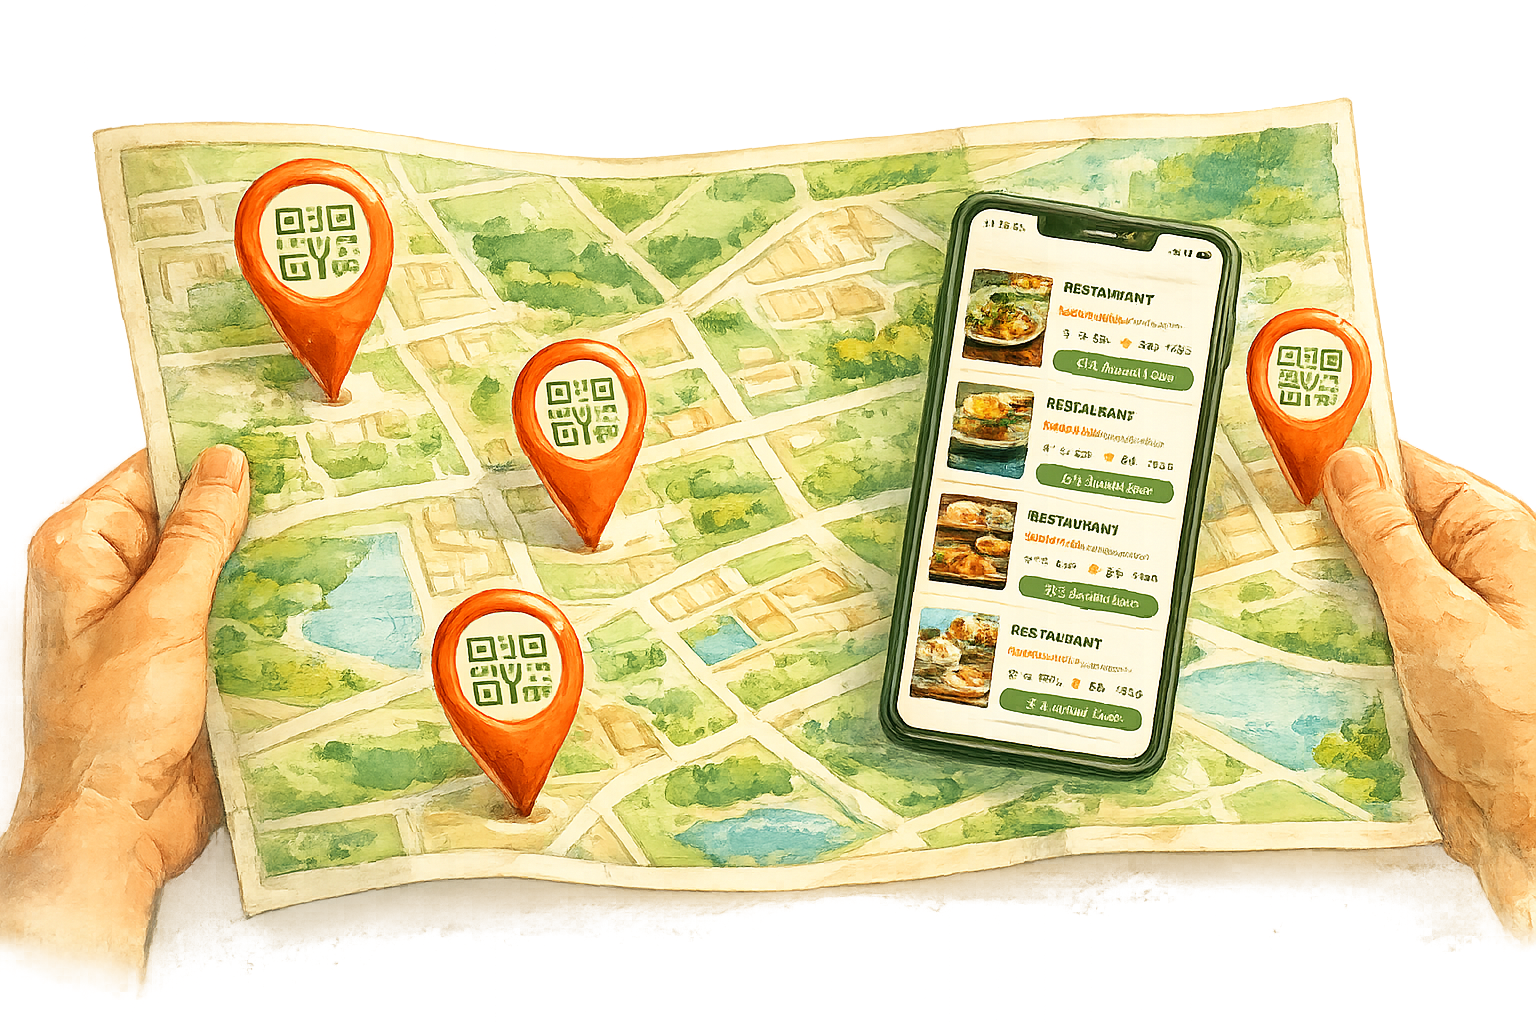
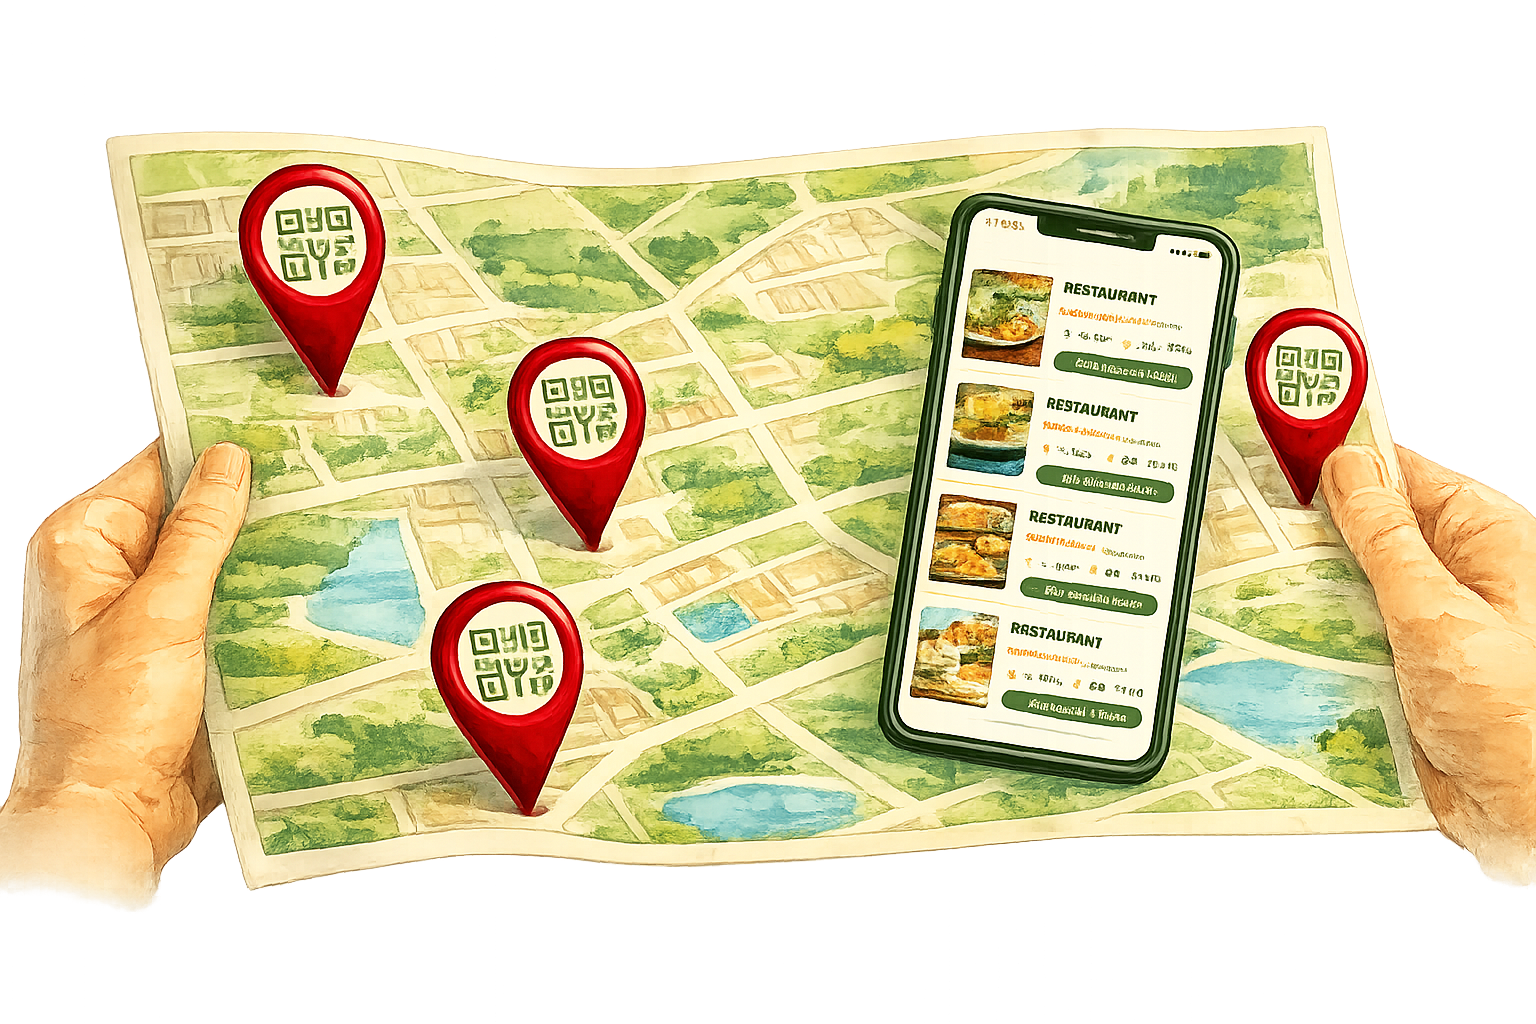
Updated main page colors and layout.

diff --git a/WebUI/wwwroot/css/footer-header.css b/WebUI/wwwroot/css/footer-header.css
@@ -9,7 +9,8 @@
     position: sticky;
     top: 0;
     z-index: 50;
-    isolation: isolate; /* dropdown z-index stabil */
+    isolation: isolate;
+    /* dropdown z-index stabil */
 }
 
 .site-header__inner {
@@ -18,7 +19,7 @@
     grid-template-areas: "logo nav actions";
     align-items: center;
     gap: 16px;
-    padding: 10px 0;
+    padding: 10px 24px;
 }
 
 /* LOGO */
@@ -37,7 +38,7 @@
     width: 36px;
     height: 36px;
     border-radius: 12px;
-    background: rgba(255,255,255,.18);
+    background: rgba(255, 255, 255, .18);
     display: inline-flex;
     align-items: center;
     justify-content: center;
@@ -56,13 +57,13 @@
     gap: 6px;
     padding: 6px;
     border-radius: 999px;
-    background: rgba(255,255,255,.16);
+    background: rgba(255, 255, 255, .16);
 }
 
 .site-header__nav-link {
     position: relative;
     z-index: 1;
-    color: rgba(255,255,255,.92);
+    color: rgba(255, 255, 255, .92);
     font-weight: 900;
     font-size: 14px;
     padding: 8px 12px;
@@ -70,10 +71,10 @@
     white-space: nowrap;
 }
 
-    .site-header__nav-link.is-active {
-        color: #2a5c2a;
-        background: rgba(255,255,255,.92);
-    }
+.site-header__nav-link.is-active {
+    color: #2a5c2a;
+    background: rgba(255, 255, 255, .92);
+}
 
 /* ACTIONS */
 .site-header__actions {
@@ -88,13 +89,17 @@
 .btn--header {
     background: var(--color-accent);
     color: #fff;
-    box-shadow: 0 10px 22px rgba(0,0,0,.16);
+    box-shadow: 0 10px 22px rgba(0, 0, 0, .16);
+    transition: transform .25s ease, filter .25s ease, opacity .25s ease;
+
 }
 
-    .btn--header:hover {
-        background: var(--color-accent-dark);
-        transform: translateY(-1px);
-    }
+.btn--header:hover {
+    background: var(--color-accent-dark);
+    transform: translateY(-1px);
+    transition: transform .25s ease, filter .25s ease, opacity .25s ease;
+
+}
 
 
 
@@ -114,78 +119,107 @@
     width: 42px;
     height: 42px;
     border-radius: 14px;
-    background: rgba(255,255,255,.18);
+    background: rgba(255, 255, 255, .0);
+    border: 2px solid rgba(255, 255, 255, .42);
     box-shadow: var(--shadow-soft);
     align-items: center;
     justify-content: center;
     color: #fff;
+    transition: border-radius 0.2s ease, background-color 0.2s ease;
+}
+
+/* Menü açıkken hamburger'ın alt köşeleri düz olsun ve renk değişsin */
+.site-header__burger[aria-expanded="true"] {
+    border-bottom-left-radius: 0;
+    border-bottom-right-radius: 0;
+    background: var(--color-primary-dark);
 }
 
 .site-header__burger-lines {
     width: 18px;
-    height: 12px;
+    height: 2px;
+    border-radius: 999px;
+    background-color: rgba(255, 255, 255, .92);
     position: relative;
     display: inline-block;
 }
 
-    .site-header__burger-lines::before,
-    .site-header__burger-lines::after {
-        content: "";
-        position: absolute;
-        left: 0;
-        right: 0;
-        height: 2px;
-        border-radius: 999px;
-        background: rgba(255,255,255,.92);
-    }
+.site-header__burger-lines::before,
+.site-header__burger-lines::after {
+    content: "";
+    position: absolute;
+    left: 0;
+    right: 0;
+    height: 2px;
+    border-radius: 999px;
+    background: rgba(255, 255, 255, .92);
+}
 
-    .site-header__burger-lines::before {
-        top: 0;
-    }
+.site-header__burger-lines::before {
+    top: -6px;
+}
 
-    .site-header__burger-lines::after {
-        bottom: 0;
-    }
+.site-header__burger-lines::after {
+    top: 6px;
+}
 
+/* (Varsa) dropdown'u header'a bağla */
+.site-header {
+    position: relative;
+}
 
-/* Mobile dropdown container */
+/* Konum: header'ın ALTINA gelsin */
+.site-header__mobile {
+    position: absolute;
+    right: 24px;
+    top: calc(100% - 10px);
+    width: max-content;
+    min-width: 190px;
+    max-width: calc(100vw - 48px);
+    z-index: 160;
+}
+
 .site-header__mobile[hidden] {
     display: none;
 }
 
-.site-header__mobile {
-    position: absolute;
-    left: 0;
-    right: 0;
-    top: 100%;
-    z-index: 160;
-    padding: 10px 0 14px;
-}
-
+/* Panel */
 .site-header__mobile-inner {
-    background: rgba(255,255,255,.16);
-    border-radius: 18px;
-    padding: 10px;
-    display: grid;
-    gap: 8px;
-    backdrop-filter: blur(8px);
+    position: relative;
+    padding: 8px;
+    border-radius: 0 0 18px 18px;
+    border-top-left-radius: 14px;
+
+    background: var(--color-primary-dark);
+    border: 2px solid rgba(255, 255, 255, .42);
+    border-top: none;
+    box-shadow: 0 18px 45px rgba(0, 0, 0, .35);
 }
 
-/* Linkler: arka plansız */
+
+
+/* Linkler */
 .site-header__mobile-link {
     display: flex;
     align-items: center;
-    padding: 10px 12px;
+    gap: 10px;
+    padding: 12px 14px;
     border-radius: 14px;
-    font-weight: 900;
-    color: rgba(255,255,255,1);
-    background: transparent;
+    font-weight: 800;
+    color: rgba(255, 255, 255, .95);
     text-decoration: none;
 }
 
-    .site-header__mobile-link:hover {
-        background: rgba(255,255,255,.12);
-    }
+/* Ayırıcı çizgi: daha “menu” hissi */
+.site-header__mobile-link+.site-header__mobile-link {
+    border-top: 1px solid rgba(255, 255, 255, .10);
+    border-top-left-radius: 0;
+    border-top-right-radius: 0;
+}
+
+.site-header__mobile-link:hover {
+    background: rgba(255, 255, 255, .10);
+}
 
 /* MOBILE */
 @media (max-width: 720px) {
@@ -199,7 +233,7 @@
     .site-header__burger {
         display: inline-flex;
     }
-    
+
     /* Grid: logo + actions */
     .site-header__inner {
         grid-template-columns: 1fr auto;
@@ -210,6 +244,7 @@
     .btn--header {
         padding: 8px 12px;
         font-size: 13px;
+        height: 42px;
     }
 }
 
@@ -257,17 +292,17 @@
     gap: 6px;
 }
 
-    .site-footer__links a {
-        color: #EDE0D1;
-        opacity: .9;
-    }
+.site-footer__links a {
+    color: #EDE0D1;
+    opacity: .9;
+}
 
-        .site-footer__links a:hover {
-            opacity: 1;
-        }
+.site-footer__links a:hover {
+    opacity: 1;
+}
 
 .site-footer__bottom {
-    border-top: 1px solid rgba(255,255,255,.12);
+    border-top: 1px solid rgba(255, 255, 255, .12);
     padding-top: 10px;
     display: flex;
     flex-direction: column;
@@ -280,17 +315,17 @@
     gap: 10px;
 }
 
-    .site-footer__social a {
-        display: inline-flex;
-        align-items: center;
-        justify-content: center;
-        width: 30px;
-        height: 30px;
-        border-radius: 999px;
-        background: rgba(255,255,255,.12);
-        color: #fff;
-        font-weight: 900;
-    }
+.site-footer__social a {
+    display: inline-flex;
+    align-items: center;
+    justify-content: center;
+    width: 30px;
+    height: 30px;
+    border-radius: 999px;
+    background: rgba(255, 255, 255, .12);
+    color: #fff;
+    font-weight: 900;
+}
 
 /* footer mobile/desktop switch */
 .site-footer__top--desktop {
@@ -302,25 +337,25 @@
 }
 
 .site-footer__acc {
-    background: rgba(255,255,255,.06);
+    background: rgba(255, 255, 255, .06);
     border-radius: 16px;
     padding: 10px 12px;
 }
 
-    .site-footer__acc summary {
-        cursor: pointer;
-        font-weight: 900;
-        color: #fff;
-        list-style: none;
-    }
+.site-footer__acc summary {
+    cursor: pointer;
+    font-weight: 900;
+    color: #fff;
+    list-style: none;
+}
 
-        .site-footer__acc summary::-webkit-details-marker {
-            display: none;
-        }
+.site-footer__acc summary::-webkit-details-marker {
+    display: none;
+}
 
-    .site-footer__acc[open] {
-        background: rgba(255,255,255,.09);
-    }
+.site-footer__acc[open] {
+    background: rgba(255, 255, 255, .09);
+}
 
 @media (min-width: 768px) {
     .site-footer__top--mobile {
@@ -329,7 +364,7 @@
 
     .site-footer__top--desktop {
         display: grid;
-        grid-template-columns: 1.4fr repeat(3, minmax(0,1fr));
+        grid-template-columns: 1.4fr repeat(3, minmax(0, 1fr));
         gap: 24px;
         align-items: start;
     }

diff --git a/WebUI/wwwroot/css/site.css b/WebUI/wwwroot/css/site.css
@@ -31,7 +31,7 @@
         flex-direction: row;
         align-items: center;
         gap: 56px;
-        padding: 52px 0 96px;
+        padding: 52px 24px 96px;
     }
 }
 
@@ -437,7 +437,7 @@
     gap: 16px;
     align-items: flex-start;
     justify-content: space-between;
-    padding: 32px 0;
+    padding: 32px 24px;
 }
 
 .cta__title {
@@ -465,7 +465,7 @@
 /* Mobil ekstra */
 @media (max-width: 600px) {
     .hero__inner {
-        padding: 28px 0 60px;
+        padding: 28px 24px 60px;
     }
 
     .hero__lead {
